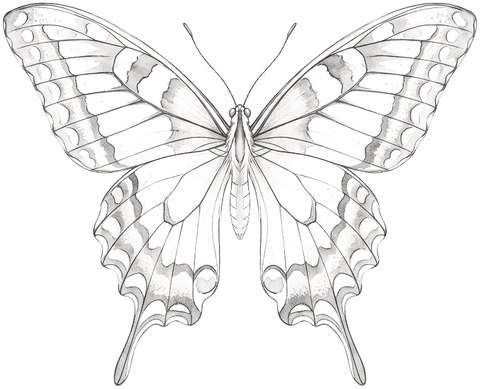
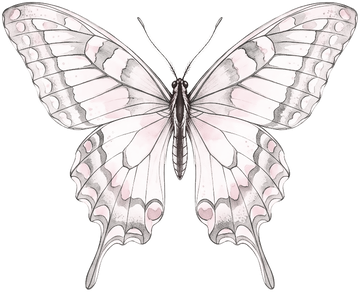
燕尾蝶縮小 1/3、身體加深、翅膀暈一點粉紅
Claude-Session: https://claude.ai/code/session_01WT61VZ4MhdTC2Vy4EDZdFG

diff --git a/temple/index.html b/temple/index.html
@@ -221,9 +221,9 @@ const LAMP_SVG=`<svg viewBox="0 0 24 34"><radialGradient id="lg" cx="50%" cy="40
 function lampSpots(n,front){const out=[];for(let i=0;i<n;i++){const k=Math.floor(i/2),side=i%2?-1:1;
   if(front){out.push([512+side*(30+k*40),416]);}else{const row=Math.floor(k/4),col=k%4;out.push([512+side*(92+col*46),410-row*40]);}}return out;}
 function drawLamps(hz,ox,oy,s,w){const P=PL();const front=!!HALLS[cur].front;
-  if(cur==="yuelao"){const f=document.createElement("button");f.className="fly";f.setAttribute("aria-label","燕尾蝶燈・愛自己");const fs=Math.max(80,92*s);
+  if(cur==="yuelao"){const f=document.createElement("button");f.className="fly";f.setAttribute("aria-label","燕尾蝶燈・愛自己");const fs=Math.max(54,61*s);
     f.style.cssText=`left:${ox+700*s}px;top:${oy+342*s}px;width:${fs}px;height:${fs*.8}px`;
-    f.innerHTML=`<img src="img/butterfly.png?v=5" alt=""><span class="nm">燕尾蝶・愛自己</span>`;
+    f.innerHTML=`<img src="img/butterfly.png?v=6" alt=""><span class="nm">燕尾蝶・愛自己</span>`;
     f.onclick=()=>{location.href="../love/";};hz.appendChild(f);}
   const L=front?P.lamps.filter(l=>l.done):P.lamps.filter(l=>l.deity===cur&&!l.done);
   const pos=lampSpots(L.length,front),sz=Math.max(18,22*s*(front?.9:1));
